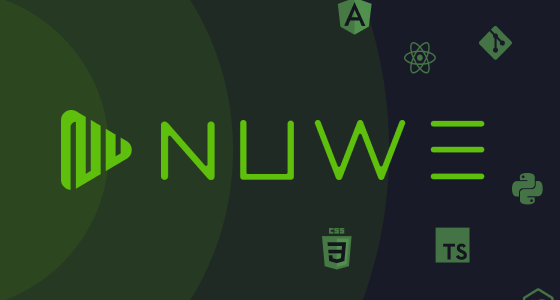
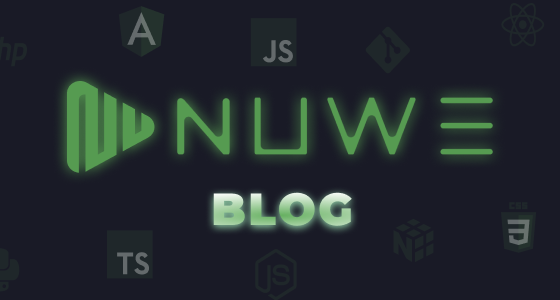
fix blog and add employer blig

diff --git a/components/SEO.js b/components/SEO.js
@@ -14,7 +14,7 @@ const CommonSEO = ({ title, description, ogType, ogImage, twImage, canonicalUrl 
       <meta property="og:site_name" content={siteMetadata.title} />
       <meta property="og:description" content={description} />
       <meta property="og:title" content={title} />
-      <meta property="og:image" content={ogImage} />
+      <meta property="og:image" itemProp="image" content={ogImage} />
       <meta name="twitter:card" content="summary_large_image" />
       <meta name="twitter:site" content={siteMetadata.twitter} />
       <meta name="twitter:title" content={title} />

diff --git a/components/LayoutWrapper.js b/components/LayoutWrapper.js
@@ -33,7 +33,7 @@ const LayoutWrapper = ({ children }) => {
                 <Link
                   key={link.title}
                   href={link.href}
-                  className="link-underline font-regular p-1 text-2sm text-gray-700 dark:text-gray-100 sm:p-4"
+                  className="font-regular p-1 text-2sm text-gray-700 hover:text-gradient-200 dark:text-gray-100 sm:p-4"
                 >
                   {link.title}
                 </Link>

diff --git a/data/blog/employer-branding-en.md b/data/blog/employer-branding-en.md
@@ -1,0 +1,49 @@
+---
+title: What is employer branding and why is so important?
+image: /blog/static/images/headers/employer-branding.png
+date: '2022-03-28'
+tags:
+  [
+    'employerbranding',
+    'millennial',
+    'digital',
+    'talentotecnológico',
+    'RRHH',
+    'retenertalento',
+    'empleado',
+    'empleada'
+  ]
+draft: false
+summary: 'In which company would you like to work? Do you already have the answer? Well, the company that first came to your mind is developing its Employer Branding perfectly 👌🏻'
+authors: ['maria']
+---
+
+# In which company would you like to work?
+
+## Do you already have the answer? Well, the company that first came to your mind is developing its Employer Branding perfectly 👌🏻
+
+---
+
+If we go by the definition on [Wikipedia](https://en.wikipedia.org/wiki/Employer_branding): **Employer brand** is branding and marketing the entirety of the **employment experience**. It describes an employer's reputation as a place to work, and their employee value proposition, as opposed to the more general corporate brand reputation and value proposition to customers.
+
+In other words, **Employer Branding is how you, as a company, are viewed by your customers, your employees, and your potential future candidates.** Something not to be taken lightly, don't you think? 🙌🏻
+
+It should be said that this concept is relatively new: in **Spain**, it started to be used in **2008** with the beginning of the crisis and the need for companies to retain their talent. But now, in **2022**, is when it is **booming** and becoming increasingly important. Why? Well, here are some of the various reasons:
+
+### 1\. The entry into the market of the “digital and hyper-connected generation”
+
+Increasingly (if not already), the **organization of companies** and their **connectivity** with their employees is becoming more **digital**. And this is not only related to one of the consequences of the **pandemic**, but also to the entry into the market of that generation that used to spend their evenings in front of their Windows 95 screens and send buzzes to their friends via Messenger: **the Millennial generation**.
+
+### 2\. Checkmate to the corporate status quo
+
+The Millennial generation is also famous for its **high ethical and social values**, and for bravely supporting the importance of **mental health**. Thus, this generation is the antithesis of the obsolete corporate culture, full of hierarchies, burnouts and conservatism so far imposed by their predecessors. No more having to wait until your boss leaves the office to finish your working day 🙅🏻
+
+### 3\. Demographic changes
+
+Millennials are causing a **drop in the birth rate**, either because they simply don't want to have children, or because they haven't enough resources due to their low salaries (this is a topic for another article 😅). This means a **decline in the working population** in the coming years, which will mean that there will not be enough young people to fill the needed jobs. In other words, **companies will be fighting among themselves to recruit and retain talent**.
+
+With this, we must bear in mind that the demand for technological profiles will **boost** in the years to come, and the Millennial generation is full of these profiles. So, **how do we get the new generations to come to our company or, even more difficult, how do we get them to stay with us?**
+
+You can find Millennials taking a stand for a social cause on **Twitter**, posting their CV on **LinkedIn** or showing pictures of their beloved pets on **Instagram**. If you want to define an **Employer Branding Strategy** to attract and retain the talent of this generation, one idea would be to **adapt to their digital ecosystem and evolve with them**.
+
+However, if you are an **HR professional** who not only provides a **good image of your company through social media**, but also you **care about your company's employees** and want them to work in a **healthy environment and conditions**, as well as wanting your company to be the preferred choice for potential candidates for these reasons, it means that **you are already making an effort to improve your Employer Branding. Congratulations, you are changing the world!** 👏🏻
